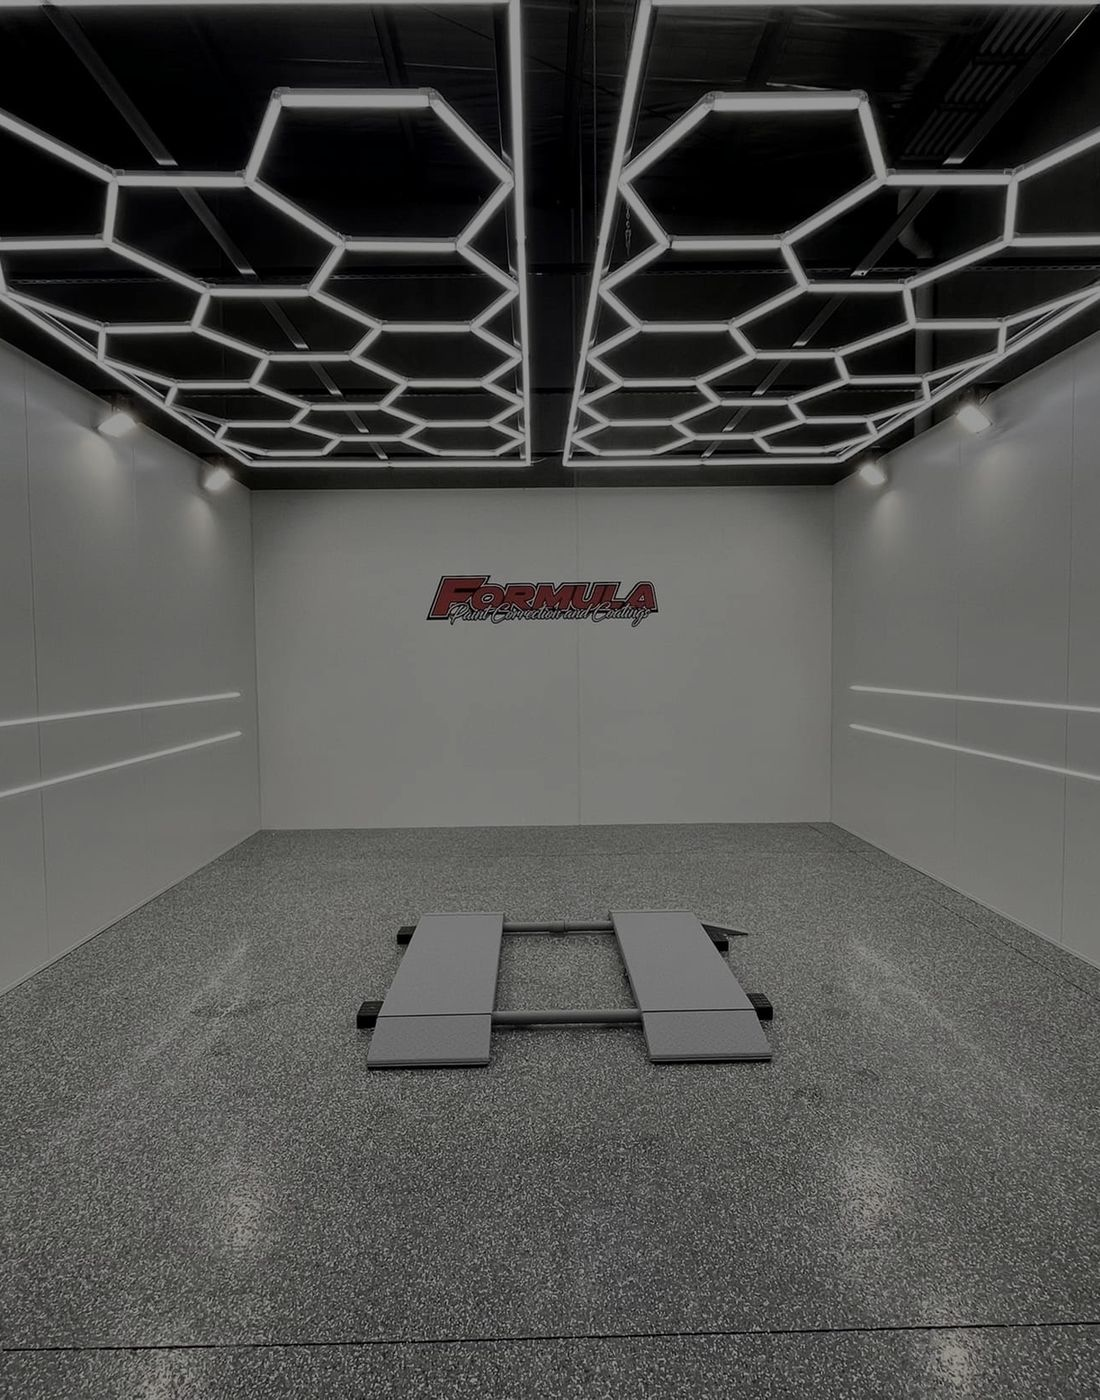
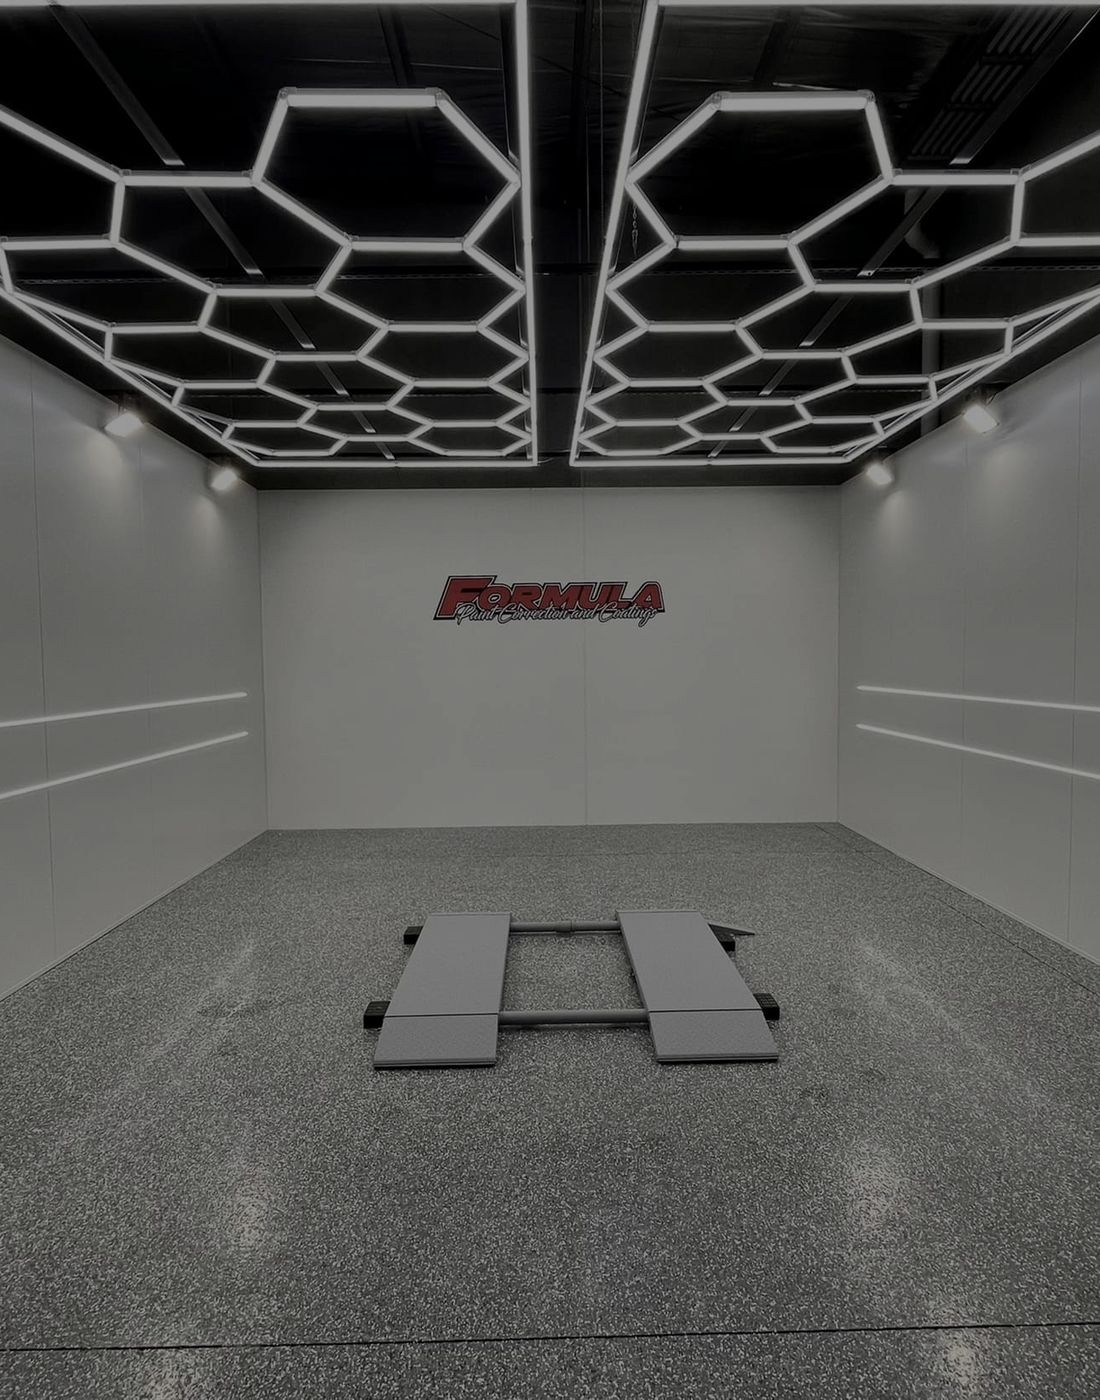
Keep the hero copy off the wall mark; unjam and slim the deck
The wall signage in the hero plate was measured, not guessed: saturated red is
the only such colour in a grey room, so the mark's position can be found
exactly. It sat at 43% down the plate - precisely where the subheading falls -
so the type printed over the client's own signage on both breakpoints.

Re-cropping alone could not fix the phone plate: it is already full height, so
the mark cannot move within it. The image is oversized inside the frame and
anchored to the top instead, which pushes the mark down the VISIBLE window and
works identically on both plates because it is proportional. Verified: the mark
no longer sits under the text at either width.

Deck: the display word sat 1-2px off the frame's top edge and now clears it by
46px on desktop, 81px on the phone. The phone card was eating 77% of the frame,
which is what read as fat - now 38%, with the frame itself a little taller and
the card's own type and padding brought in.

Stats strip takes the same weave as the process. Its "7 services" was hardcoded
and had been wrong since overspray came off; it counts SERVICES now, and reads
3.

Gallery panels lose their gap and radius entirely, so the strip is continuous.

diff --git a/www/assets/css/site.css b/www/assets/css/site.css
@@ -2503,3 +2503,30 @@ body{max-width:100%}
 .bk__head{max-width:56ch;margin:0 auto 2.2rem;text-align:center}
 .bk__head h2{margin:.2rem 0 .6rem}
 .bk__head .lede{margin:0 auto}
+
+/* ---------- hero: keep the copy off the client's own signage ----------
+   The wall mark sat at ~43% of the plate, which is exactly where the
+   subheading falls, so the type printed straight over his signage. Re-cropping
+   alone could not fix the phone plate - it is already full height, so the mark
+   cannot move within it. Oversizing the image inside the frame and anchoring
+   it to the top pushes the mark down the VISIBLE window instead, and works the
+   same on both plates because it is proportional. */
+.hero--photo{overflow:hidden}
+.hero--photo .hero__bg img{height:170%;object-position:center top}
+
+/* ---------- deck: the word was jammed against the frame edge ---------- */
+.coat--deck .coat__panel{padding-top:clamp(1.6rem,4vw,2.8rem)}
+
+/* the phone card was eating 77% of the frame, which is what read as fat */
+@media (max-width:820px){
+  .coat--deck .coat__stage{height:min(74vh,560px);min-height:470px}
+  .coat--deck .coat__card{padding:1rem 1.05rem;gap:.85rem;border-radius:15px}
+  .coat--deck .coat__card p{font-size:.8rem;line-height:1.5}
+  .coat--deck .coat__h{font-size:.98rem;line-height:1.25}
+  .coat--deck .coat__n{width:34px;height:34px;font-size:.8rem}
+}
+
+/* ---------- gallery: panels touching ---------- */
+.mq--slant .mq__track{gap:0}
+.slantile{border-radius:0}
+@media (max-width:820px){ .mq--slant .mq__track{gap:0} .slantile{border-radius:0} }

diff --git a/www/index.html b/www/index.html
@@ -19,7 +19,7 @@
     <link rel="preload" as="font" type="font/woff2" href="/assets/fonts/bebas-neue-400.woff2" crossorigin>
     <link rel="preload" as="font" type="font/woff2" href="/assets/fonts/dm-sans-latin.woff2" crossorigin>
 <script>document.documentElement.classList.add('js');</script>
-<link rel="stylesheet" href="/assets/css/site.css?v=f9134a13dc">
+<link rel="stylesheet" href="/assets/css/site.css?v=9b9bcccf0c">
 
 <script>
   window.FORMULA_CFG = {
@@ -365,11 +365,11 @@
 
 
 
-<section class="band mesh band--raise">
+<section class="band band--raise cf2">
   <div class="shell">
     <div class="grid grid--4">
       <div class="stat" data-reveal><span class="stat__n" data-count="30" data-suffix="+">30+</span><span class="stat__l">Years detailing</span></div>
-      <div class="stat" data-reveal="0.08"><span class="stat__n" data-count="7">7</span><span class="stat__l">Services</span></div>
+      <div class="stat" data-reveal="0.08"><span class="stat__n" data-count="3">3</span><span class="stat__l">Services</span></div>
       <div class="stat" data-reveal="0.16"><span class="stat__n" data-count="10" data-suffix="H">10H</span><span class="stat__l">Graphene coating</span></div>
       <div class="stat" data-reveal="0.24"><span class="stat__n">100%</span><span class="stat__l">Work done in our studio</span></div>
     </div>

diff --git a/www/booking/index.html b/www/booking/index.html
@@ -19,7 +19,7 @@
     <link rel="preload" as="font" type="font/woff2" href="/assets/fonts/bebas-neue-400.woff2" crossorigin>
     <link rel="preload" as="font" type="font/woff2" href="/assets/fonts/dm-sans-latin.woff2" crossorigin>
 <script>document.documentElement.classList.add('js');</script>
-<link rel="stylesheet" href="/assets/css/site.css?v=f9134a13dc">
+<link rel="stylesheet" href="/assets/css/site.css?v=9b9bcccf0c">
 
 <script>
   window.FORMULA_CFG = {

diff --git a/www/ceramic-coating-cost-melbourne/index.html b/www/ceramic-coating-cost-melbourne/index.html
@@ -19,7 +19,7 @@
     <link rel="preload" as="font" type="font/woff2" href="/assets/fonts/bebas-neue-400.woff2" crossorigin>
     <link rel="preload" as="font" type="font/woff2" href="/assets/fonts/dm-sans-latin.woff2" crossorigin>
 <script>document.documentElement.classList.add('js');</script>
-<link rel="stylesheet" href="/assets/css/site.css?v=f9134a13dc">
+<link rel="stylesheet" href="/assets/css/site.css?v=9b9bcccf0c">
 
 <script>
   window.FORMULA_CFG = {

diff --git a/www/ceramic-coating-longevity-melbourne/index.html b/www/ceramic-coating-longevity-melbourne/index.html
@@ -19,7 +19,7 @@
     <link rel="preload" as="font" type="font/woff2" href="/assets/fonts/bebas-neue-400.woff2" crossorigin>
     <link rel="preload" as="font" type="font/woff2" href="/assets/fonts/dm-sans-latin.woff2" crossorigin>
 <script>document.documentElement.classList.add('js');</script>
-<link rel="stylesheet" href="/assets/css/site.css?v=f9134a13dc">
+<link rel="stylesheet" href="/assets/css/site.css?v=9b9bcccf0c">
 
 <script>
   window.FORMULA_CFG = {

diff --git a/www/ceramic-coating-maintenance-melbourne/index.html b/www/ceramic-coating-maintenance-melbourne/index.html
@@ -19,7 +19,7 @@
     <link rel="preload" as="font" type="font/woff2" href="/assets/fonts/bebas-neue-400.woff2" crossorigin>
     <link rel="preload" as="font" type="font/woff2" href="/assets/fonts/dm-sans-latin.woff2" crossorigin>
 <script>document.documentElement.classList.add('js');</script>
-<link rel="stylesheet" href="/assets/css/site.css?v=f9134a13dc">
+<link rel="stylesheet" href="/assets/css/site.css?v=9b9bcccf0c">
 
 <script>
   window.FORMULA_CFG = {

diff --git a/www/ceramic-coating-melbourne/index.html b/www/ceramic-coating-melbourne/index.html
@@ -19,7 +19,7 @@
     <link rel="preload" as="font" type="font/woff2" href="/assets/fonts/bebas-neue-400.woff2" crossorigin>
     <link rel="preload" as="font" type="font/woff2" href="/assets/fonts/dm-sans-latin.woff2" crossorigin>
 <script>document.documentElement.classList.add('js');</script>
-<link rel="stylesheet" href="/assets/css/site.css?v=f9134a13dc">
+<link rel="stylesheet" href="/assets/css/site.css?v=9b9bcccf0c">
 
 <script>
   window.FORMULA_CFG = {

diff --git a/www/ceramic-coating-near-me-melbourne/index.html b/www/ceramic-coating-near-me-melbourne/index.html
@@ -19,7 +19,7 @@
     <link rel="preload" as="font" type="font/woff2" href="/assets/fonts/bebas-neue-400.woff2" crossorigin>
     <link rel="preload" as="font" type="font/woff2" href="/assets/fonts/dm-sans-latin.woff2" crossorigin>
 <script>document.documentElement.classList.add('js');</script>
-<link rel="stylesheet" href="/assets/css/site.css?v=f9134a13dc">
+<link rel="stylesheet" href="/assets/css/site.css?v=9b9bcccf0c">
 
 <script>
   window.FORMULA_CFG = {

diff --git a/www/ceramic-coating-new-car-melbourne/index.html b/www/ceramic-coating-new-car-melbourne/index.html
@@ -19,7 +19,7 @@
     <link rel="preload" as="font" type="font/woff2" href="/assets/fonts/bebas-neue-400.woff2" crossorigin>
     <link rel="preload" as="font" type="font/woff2" href="/assets/fonts/dm-sans-latin.woff2" crossorigin>
 <script>document.documentElement.classList.add('js');</script>
-<link rel="stylesheet" href="/assets/css/site.css?v=f9134a13dc">
+<link rel="stylesheet" href="/assets/css/site.css?v=9b9bcccf0c">
 
 <script>
   window.FORMULA_CFG = {

diff --git a/www/ceramic-coating-vs-wax-melbourne/index.html b/www/ceramic-coating-vs-wax-melbourne/index.html
@@ -19,7 +19,7 @@
     <link rel="preload" as="font" type="font/woff2" href="/assets/fonts/bebas-neue-400.woff2" crossorigin>
     <link rel="preload" as="font" type="font/woff2" href="/assets/fonts/dm-sans-latin.woff2" crossorigin>
 <script>document.documentElement.classList.add('js');</script>
-<link rel="stylesheet" href="/assets/css/site.css?v=f9134a13dc">
+<link rel="stylesheet" href="/assets/css/site.css?v=9b9bcccf0c">
 
 <script>
   window.FORMULA_CFG = {

diff --git a/www/ceramic-coating-wheels-glass-melbourne/index.html b/www/ceramic-coating-wheels-glass-melbourne/index.html
@@ -19,7 +19,7 @@
     <link rel="preload" as="font" type="font/woff2" href="/assets/fonts/bebas-neue-400.woff2" crossorigin>
     <link rel="preload" as="font" type="font/woff2" href="/assets/fonts/dm-sans-latin.woff2" crossorigin>
 <script>document.documentElement.classList.add('js');</script>
-<link rel="stylesheet" href="/assets/css/site.css?v=f9134a13dc">
+<link rel="stylesheet" href="/assets/css/site.css?v=9b9bcccf0c">
 
 <script>
   window.FORMULA_CFG = {

diff --git a/www/contact/index.html b/www/contact/index.html
@@ -19,7 +19,7 @@
     <link rel="preload" as="font" type="font/woff2" href="/assets/fonts/bebas-neue-400.woff2" crossorigin>
     <link rel="preload" as="font" type="font/woff2" href="/assets/fonts/dm-sans-latin.woff2" crossorigin>
 <script>document.documentElement.classList.add('js');</script>
-<link rel="stylesheet" href="/assets/css/site.css?v=f9134a13dc">
+<link rel="stylesheet" href="/assets/css/site.css?v=9b9bcccf0c">
 
 <script>
   window.FORMULA_CFG = {
